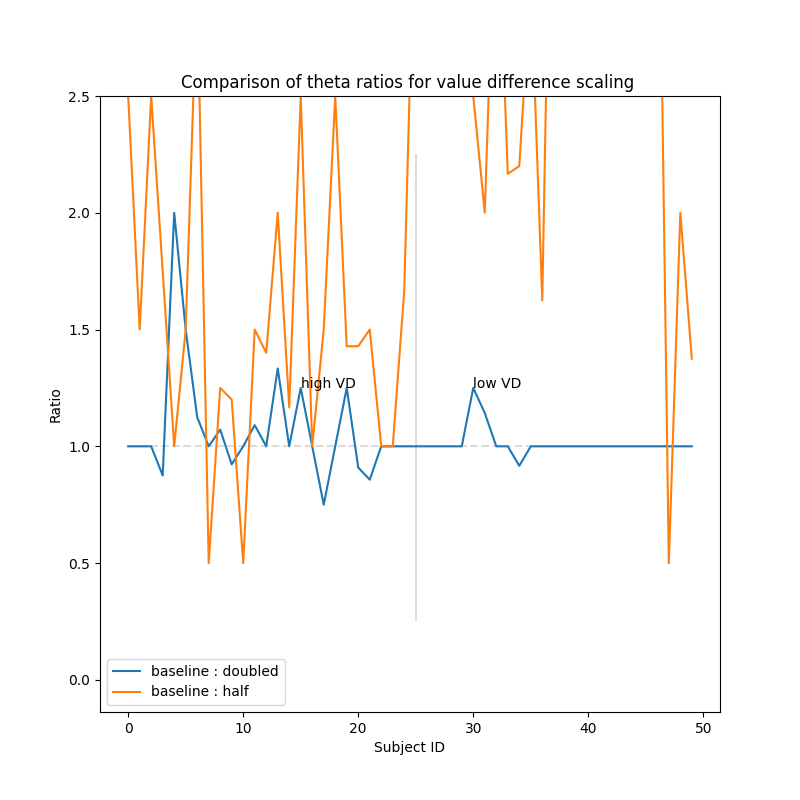
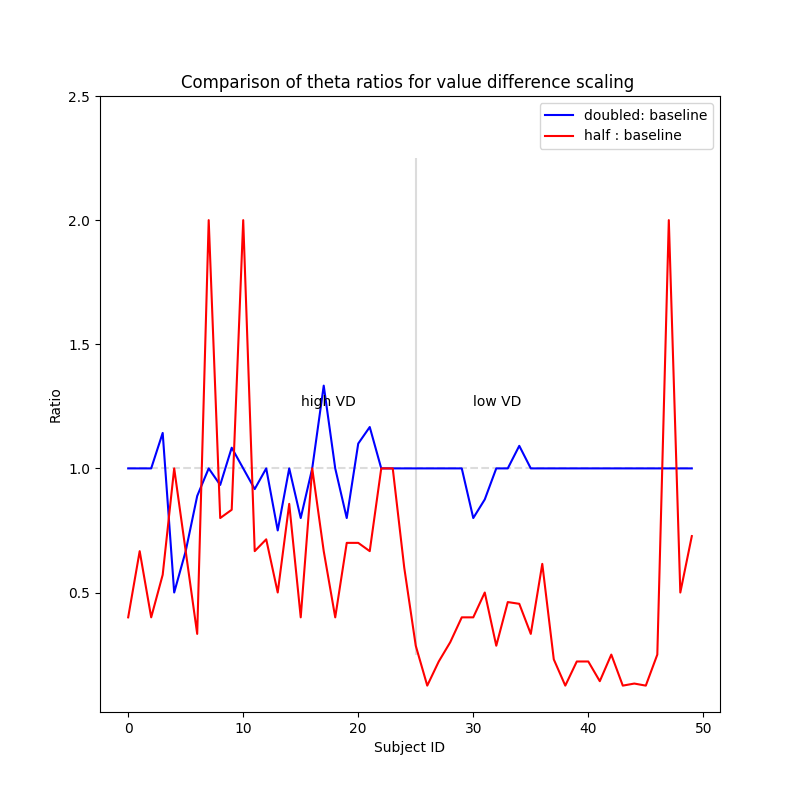
Clean makefile and update figs

diff --git a/Da_data/compare_ratios.py b/Da_data/compare_ratios.py
@@ -29,13 +29,13 @@ for (i, row), (j, row2), (k, row05) in zip(pd1.iterrows(), pd2.iterrows(), pd05.
     if row[PARAM] - row2[PARAM]== 0: 
         d1_to_d2.append(1)
     else:
-        d1_to_d2.append(row[PARAM] / row2[PARAM])
+        d1_to_d2.append(row2[PARAM]/ row[PARAM])
     if row[PARAM] - row05[PARAM] == 0: 
         d1_to_d05.append(1)
     else: 
         if row05[PARAM] == 0: 
             row05[PARAM] = 0.1
-        d1_to_d05.append(row[PARAM] / row05[PARAM])
+        d1_to_d05.append(row05[PARAM]/ row[PARAM] )
 
 plt.vlines(len(subjects) / 2, 0.25, 2.25, "gainsboro")
 if PARAM == "d": 
@@ -44,8 +44,8 @@ if PARAM == "d":
 else: 
     plt.plot(subjects, [1] * len(subjects), '--', color="gainsboro")
 
-plt.plot(subjects, d1_to_d2, label="baseline : doubled")
-plt.plot(subjects, d1_to_d05, label="baseline : half")
+plt.plot(subjects, d1_to_d2, label="doubled: baseline", color="blue")
+plt.plot(subjects, d1_to_d05, label="half : baseline", color="red")
 
 plt.text(15, 1.25, "high VD")
 plt.text(30, 1.25, "low VD")
